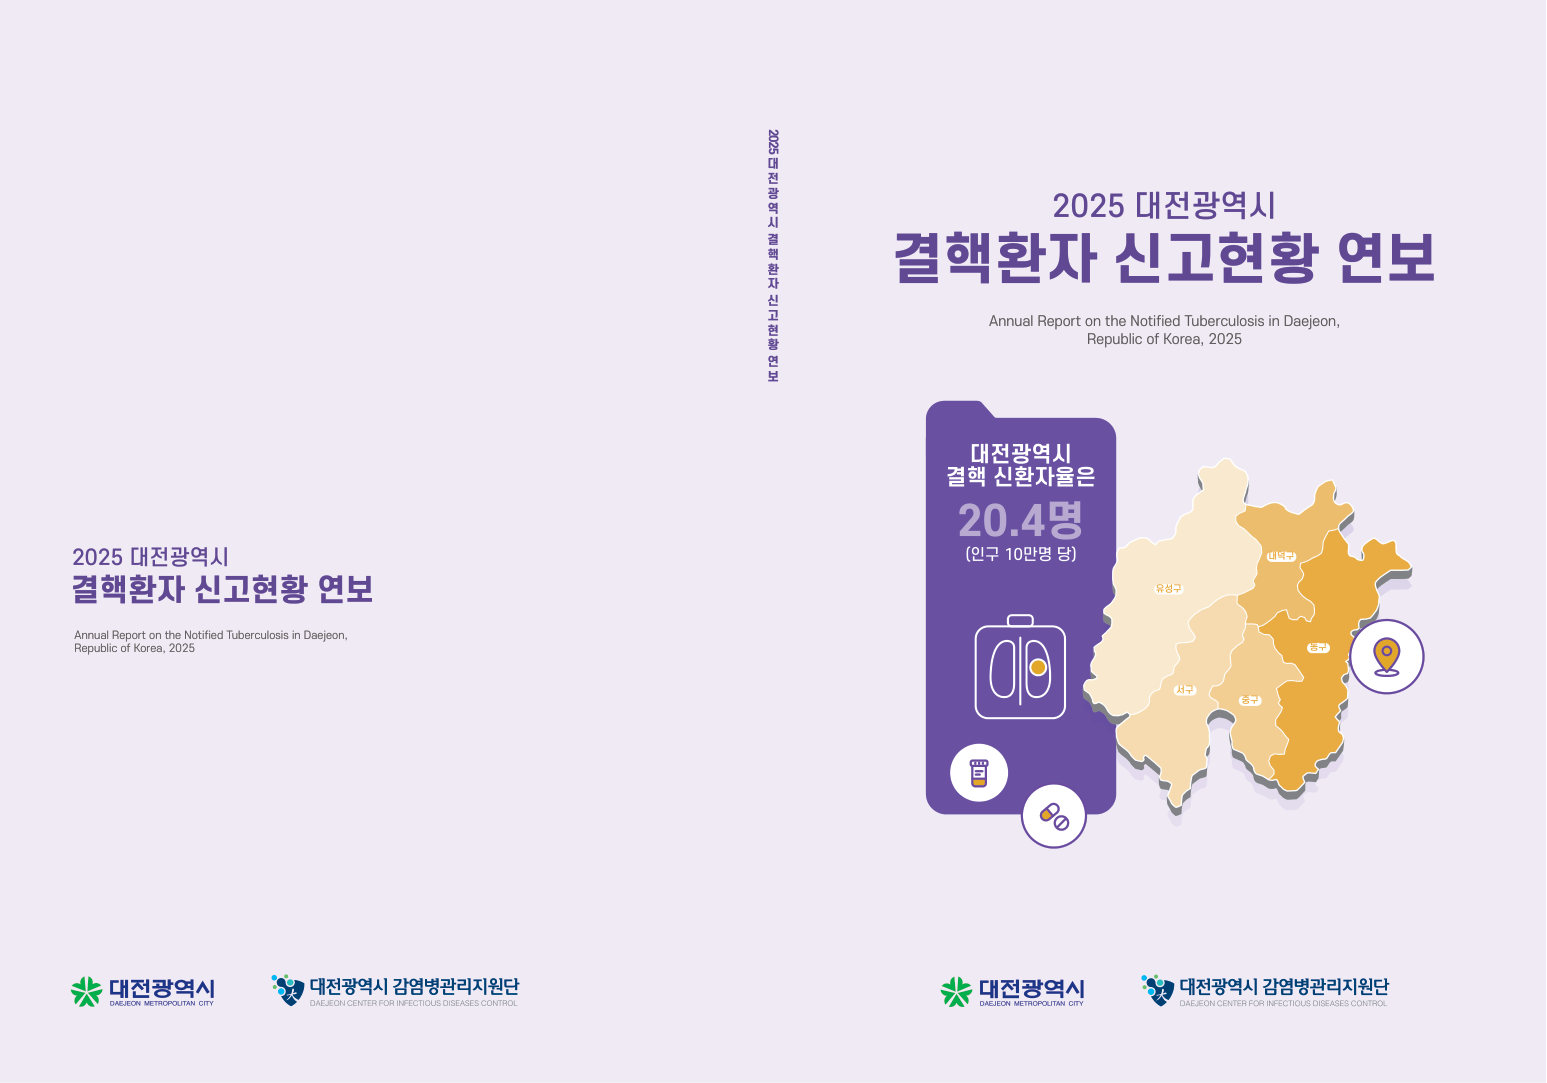
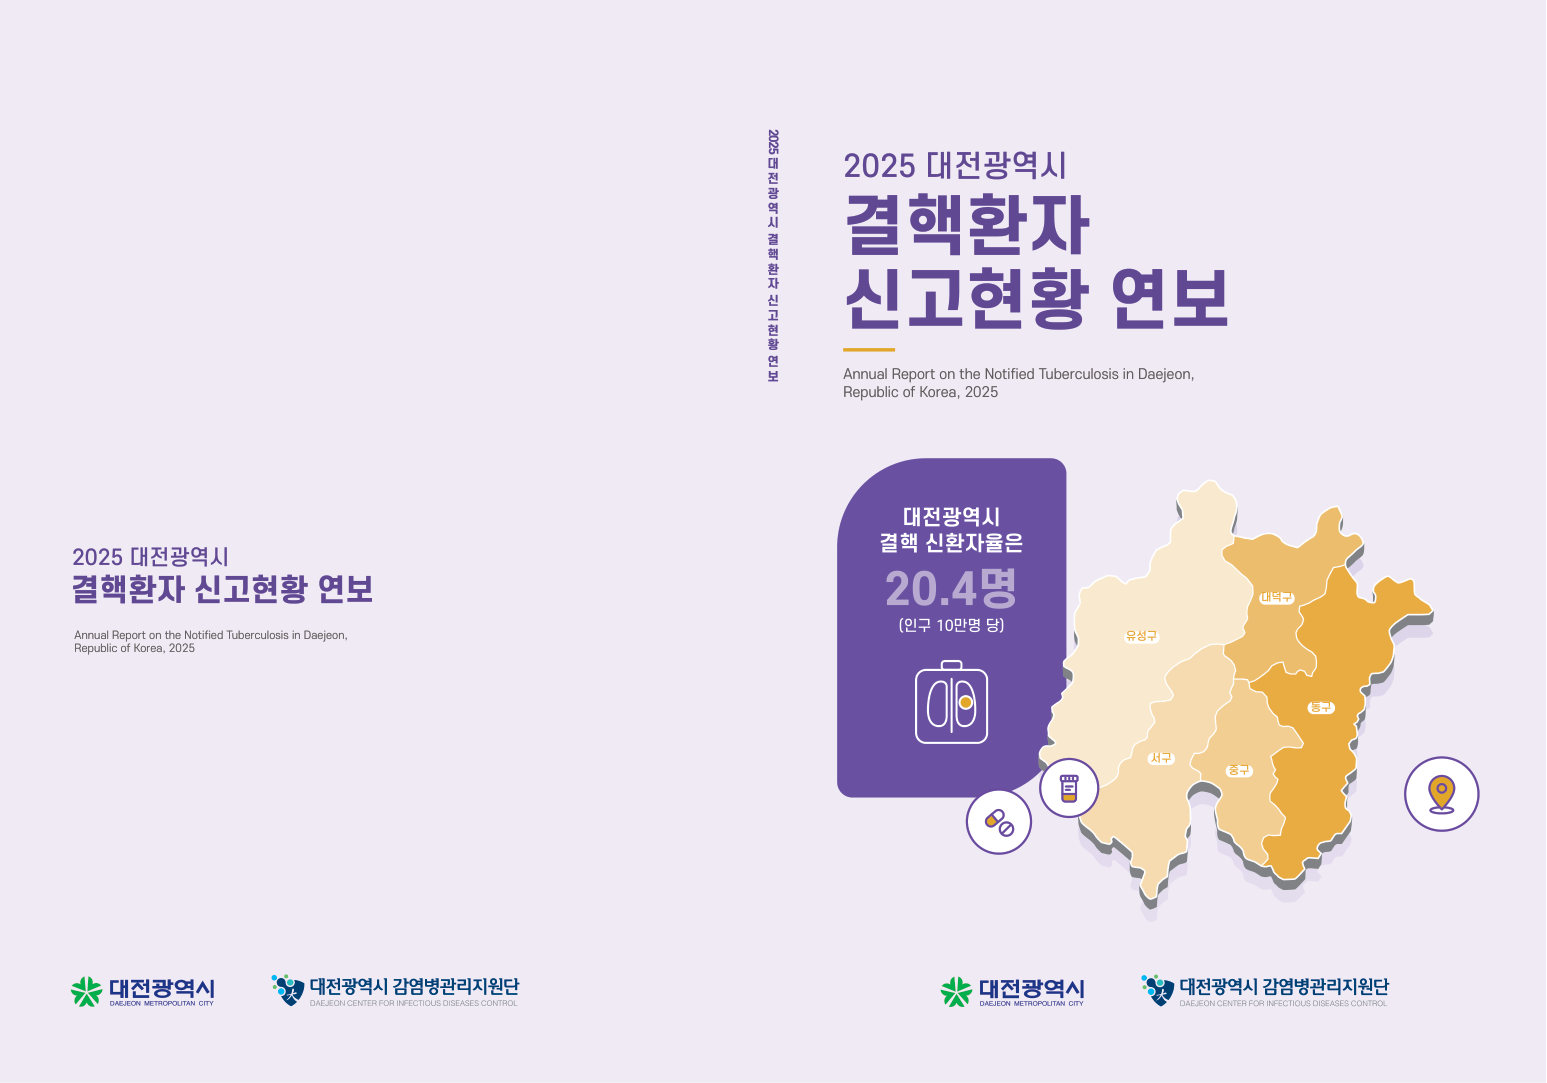
컨펌웹: 결핵연보 표지 확정안(B안) 반영
- 표지 펼침면과 홈 앞표지를 제공처 컨펌 배치로 교체, 다른 배치 장면 정리
- 진행 상황에 결핵연보 표지 확정 표시

Changed region(s): [[0.5275, 0.1219, 0.9619, 0.8532]]

diff --git a/index.html b/index.html
@@ -179,7 +179,7 @@ body::before{content:"";position:fixed;inset:0 0 auto;height:env(safe-area-inset
 
 <script>
 // 이미지를 바꿔 올릴 때마다 IMG_V를 올리면 브라우저·CDN 캐시와 상관없이 새 이미지가 보임
-const IMG_V = "20261119-11";
+const IMG_V = "20261119-12";
 const IMG = n => "img/" + n + "?v=" + IMG_V;
 const PLANS = {
   "1": {
@@ -237,7 +237,7 @@ const REV = {
     ["감시 주색 파랑", "#3A6CB3"], ["감시 보조 노랑", "#E8B730"]
   ],
   scenes: {
-    tb: [["cover", "표지 펼침면"], ["cover_b", "표지 펼침면 (다른 배치)"], ["sum", "요약 펼침"], ["toc", "목차 펼침"], ["div", "간지 펼침"], ["body", "본문 샘플"]],
+    tb: [["cover", "표지 펼침면 (확정)"], ["sum", "요약 펼침"], ["toc", "목차 펼침"], ["div", "간지 펼침"], ["body", "본문 샘플"]],
     gs: [["cover", "표지 펼침면"], ["toc", "목차 펼침"], ["div", "간지 펼침"], ["body", "본문 샘플"]]
   }
 };
@@ -282,7 +282,7 @@ const PROGRESS = {
     { state: "done", title: "1차 시안 (1·2·3안)", date: "11.14–15", note: "표지·내지 디자인 시스템 3가지 방향" },
     { state: "done", title: "결핵연보 수정 원고 검토", date: "11.18", note: "2차 원고 오류 목록 전달" },
     { state: "done", title: "수정안 제작", date: "11.19", note: "이전 디자인 유지 + 컬러 변경, 공통 일러스트, 1안 서체 적용" },
-    { state: "now",  title: "수정안 컨펌", date: "진행 중", note: "표지 2가지 배치, 내지 샘플 확인" },
+    { state: "now",  title: "수정안 컨펌", date: "진행 중", note: "결핵연보 표지 확정(11.19) · 감시연보 표지·내지 샘플 확인 중" },
     { state: "wait", title: "제공처 확인 사항 회신", date: "대기", note: "지도 5개 구 색상, 2025 신환자율(20.4 / 20.3)" },
     { state: "wait", title: "최종 원고 수령", date: "대기", note: "결핵연보 최종 수정본, 감시연보 원고" },
     { state: "todo", title: "본문 조판", date: "예정", note: "확정 디자인으로 전체 쪽 조판" },
